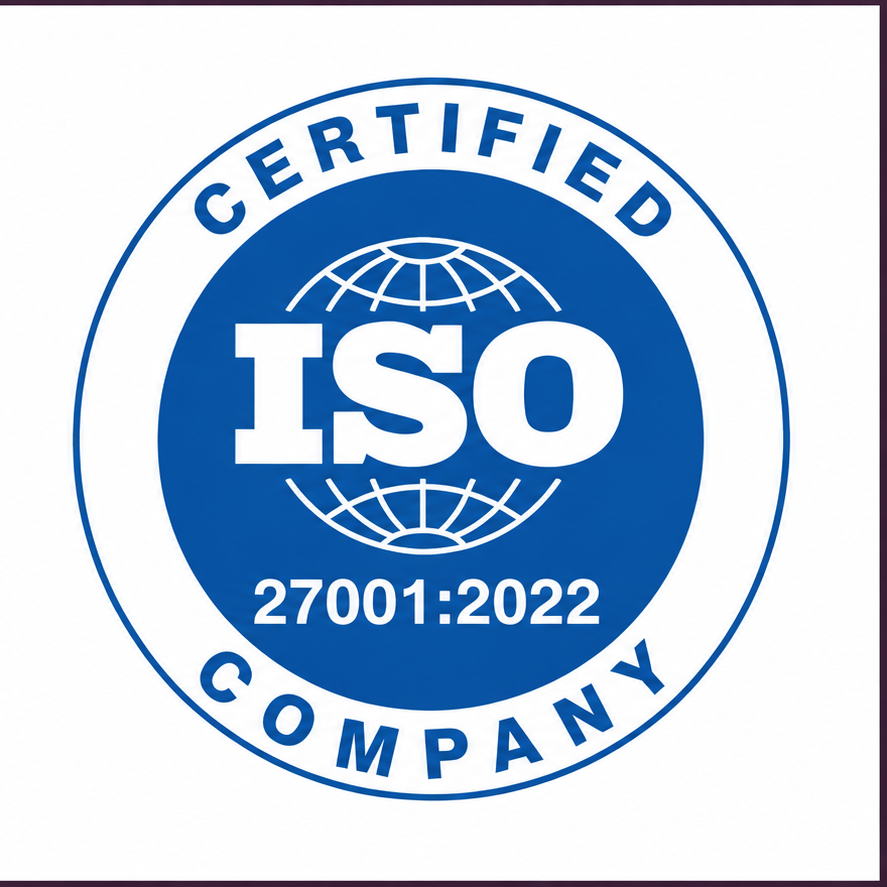
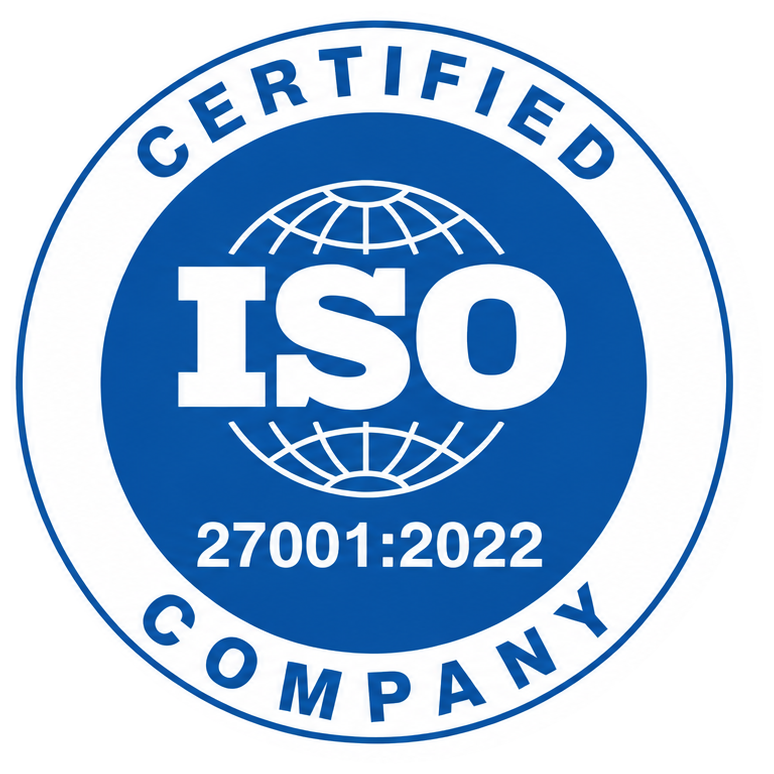
Update ISO seals with high-res transparent PNGs and floating bottom-left badge

diff --git a/index.html b/index.html
@@ -1063,5 +1063,42 @@ body {
   })();
 </script>
 
+<!-- Floating Bottom-Left ISO Badge -->
+<div class="iso-seal-badge-fixed" title="ISO 9001:2015 & ISO 27001:2022 Certified">
+  <img src="assets/recognitions/iso-combined-badge.png" alt="ISO 9001:2015 & ISO 27001:2022 Certified Seals">
+</div>
+
+<style>
+.iso-seal-badge-fixed {
+  position: fixed;
+  bottom: 24px;
+  left: 24px;
+  z-index: 9999;
+  background: rgba(255, 255, 255, 0.92);
+  backdrop-filter: blur(12px);
+  -webkit-backdrop-filter: blur(12px);
+  padding: 8px 14px;
+  border-radius: 40px;
+  box-shadow: 0 8px 32px rgba(0, 0, 0, 0.12);
+  border: 1px solid rgba(0, 0, 0, 0.08);
+  display: flex;
+  align-items: center;
+  gap: 10px;
+  transition: all 0.3s cubic-bezier(0.16, 1, 0.3, 1);
+  cursor: pointer;
+}
+.iso-seal-badge-fixed:hover {
+  transform: translateY(-4px) scale(1.03);
+  box-shadow: 0 12px 40px rgba(0, 0, 0, 0.2);
+  background: rgba(255, 255, 255, 0.98);
+}
+.iso-seal-badge-fixed img {
+  height: 44px;
+  width: auto;
+  display: block;
+  filter: drop-shadow(0 2px 4px rgba(0,0,0,0.08));
+}
+</style>
+
 </body>
 </html>
